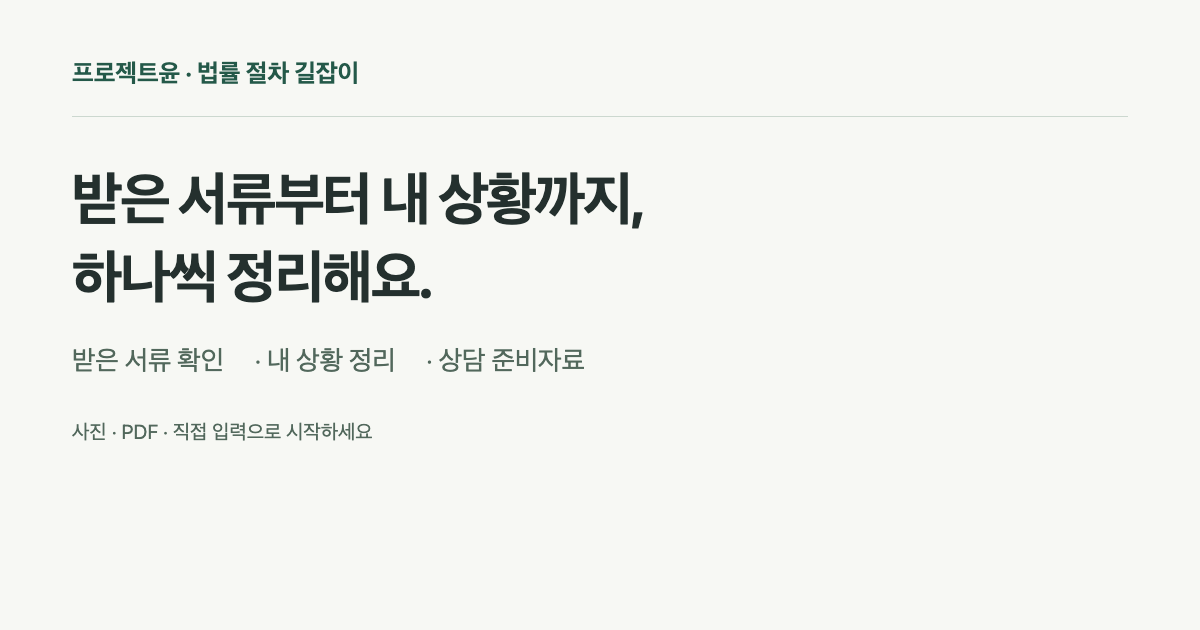
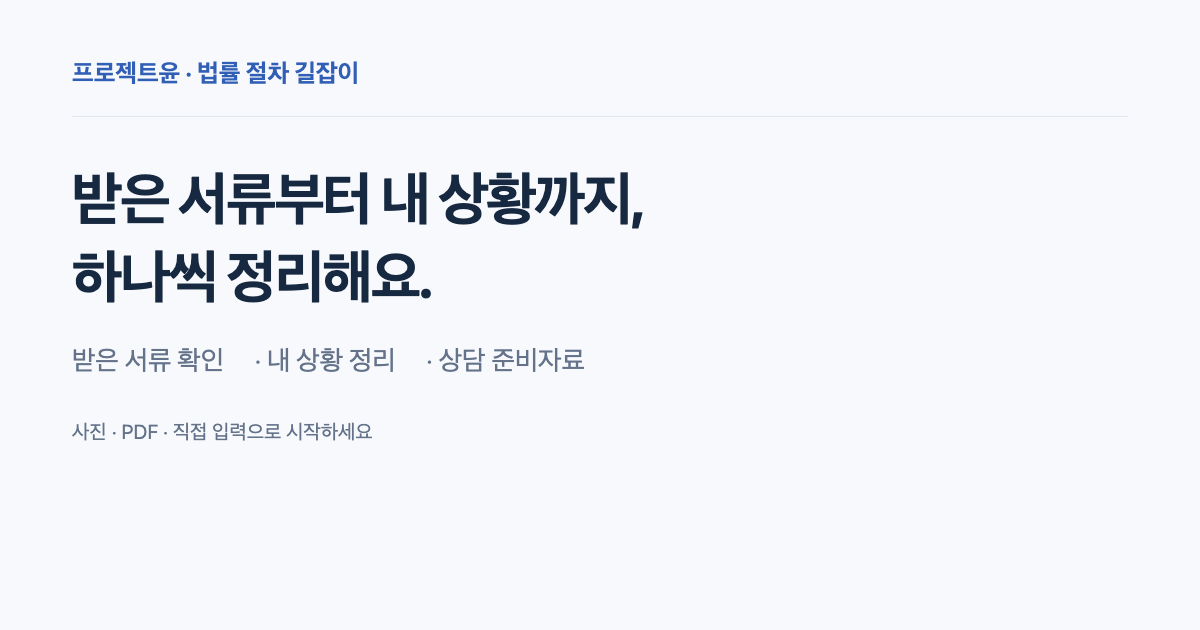
Unify independent web palette in blue and support dark-mode writing

diff --git a/절차/simple.css b/절차/simple.css
@@ -1,4 +1,8 @@
-:root{color-scheme:light;--ink:#24302e;--muted:#64716c;--line:#dbe2dc;--accent:#245949;--paper:#fff;--bg:#f7f8f4}*{box-sizing:border-box}body{margin:0;color:var(--ink);background:var(--bg);font:17px/1.65 system-ui,-apple-system,sans-serif}header{max-width:1120px;margin:auto;padding:24px 28px;display:flex;align-items:center;justify-content:space-between;border-bottom:1px solid var(--line);gap:12px}a{color:var(--accent)}header a{text-decoration:none;font-weight:750}header a span{font-weight:400;margin-left:14px;color:var(--muted);font-size:14px}.badge{font-size:12px;border:1px solid var(--line);padding:3px 8px;border-radius:4px;white-space:nowrap}main{max-width:760px;margin:42px auto 70px;padding:0 26px;min-height:52vh}nav{display:flex;justify-content:space-between;align-items:center;min-height:28px;color:var(--muted);font-size:14px;margin-bottom:26px}h1{font-size:clamp(27px,5vw,36px);line-height:1.35;letter-spacing:-.04em;margin:0 0 14px}h2{font-size:21px;margin:0 0 14px}p{margin:12px 0}.intro{color:var(--muted);margin-bottom:28px}.panel{background:var(--paper);border:1px solid var(--line);border-radius:8px;padding:24px;margin:24px 0}button{font:inherit;cursor:pointer;color:inherit;background:white;border:1px solid var(--line);padding:11px 18px;border-radius:5px}.primary{background:var(--accent);color:white;border-color:var(--accent);font-weight:650}.text-button{border:0;background:none;padding:3px 0;color:var(--accent);text-decoration:underline;font-size:14px}.actions{display:flex;flex-wrap:wrap;gap:12px;align-items:center;margin-top:24px}button:disabled{opacity:.5;cursor:not-allowed}label{display:block;font-weight:600;margin:18px 0 7px}input:not([type=checkbox]):not([type=radio]),textarea,select{display:block;width:100%;max-width:100%;font:inherit;color:inherit;padding:9px 12px;border:1px solid #a9b7af;background:white;border-radius:4px}textarea{min-height:100px;resize:vertical}.check{display:flex;gap:11px;align-items:flex-start;font-weight:400}.check input{flex:none;margin-top:7px;width:19px;height:19px}.hint,small{font-size:14px;color:var(--muted)}.quiet{padding-top:18px;border-top:1px solid var(--line)}details{margin:18px 0}summary{cursor:pointer;color:var(--accent)}.summary-row{padding:15px 0;border-bottom:1px solid var(--line);display:grid;grid-template-columns:110px 1fr auto;gap:12px;align-items:start}.summary-row strong{font-size:15px}.summary-row .value{overflow-wrap:anywhere}.summary-row button{padding:0}.source{max-height:300px;overflow:auto;padding:16px;background:#eef2ed;white-space:pre-wrap;overflow-wrap:anywhere;font:14px/1.7 system-ui}.options label{font-weight:400;padding:14px;border:1px solid var(--line);border-radius:5px;background:white;display:flex;align-items:flex-start;gap:10px}.options input{margin-top:7px;flex:none}.warning{border-left:4px solid #af7d2b;padding:12px 16px;background:#fbf4e4}.columns{display:grid;grid-template-columns:1fr 1fr;gap:0 20px}pre{white-space:pre-wrap;overflow-wrap:anywhere;font:inherit}footer{max-width:760px;margin:0 auto;padding:24px 26px 40px;color:var(--muted);font-size:13px;border-top:1px solid var(--line)}footer button{margin-left:18px}a:focus-visible,button:focus-visible,input:focus-visible,textarea:focus-visible,summary:focus-visible,select:focus-visible{outline:3px solid #e2b645;outline-offset:3px}#status{color:#8a4318}#draft-preview{background:white;padding:24px;border:1px solid var(--line)}@media(max-width:520px){header{padding:16px}header a span{display:none}main{margin-top:26px;padding:0 20px}.panel{padding:18px}.summary-row{grid-template-columns:1fr auto;gap:3px 12px}.summary-row strong{grid-column:1}.summary-row .value{grid-column:1}.summary-row button{grid-column:2;grid-row:1/3}.columns{grid-template-columns:1fr}footer{padding:20px}.actions .primary{width:100%}}@media print{header,footer,nav,#status,main h1,main .intro,.no-print{display:none!important}body{background:white}main{margin:0;padding:0;max-width:none}#result-document{display:block!important}#result-document>summary{display:none}#draft-preview{padding:0;border:0}main #screen>*:not(#result-document){display:none!important}}
+:root{color-scheme:light dark;--ink:#172941;--muted:#64738a;--line:#e1e7ef;--accent:#315fb5;--button:#315fb5;--paper:#fff;--bg:#f7f9fc;--soft:#edf3ff;--field:#acbdd8}*{box-sizing:border-box}body{margin:0;color:var(--ink);background:var(--bg);font:17px/1.65 system-ui,-apple-system,sans-serif}header{max-width:1120px;margin:auto;padding:24px 28px;display:flex;align-items:center;justify-content:space-between;border-bottom:1px solid var(--line);gap:12px}a{color:var(--accent)}header a{text-decoration:none;font-weight:750}header a span{font-weight:400;margin-left:14px;color:var(--muted);font-size:14px}.badge{font-size:12px;border:1px solid var(--line);padding:3px 8px;border-radius:4px;white-space:nowrap}main{max-width:760px;margin:42px auto 70px;padding:0 26px;min-height:52vh}nav{display:flex;justify-content:space-between;align-items:center;min-height:28px;color:var(--muted);font-size:14px;margin-bottom:26px}h1{font-size:clamp(27px,5vw,36px);line-height:1.35;letter-spacing:-.04em;margin:0 0 14px}h2{font-size:21px;margin:0 0 14px}p{margin:12px 0}.intro{color:var(--muted);margin-bottom:28px}.panel{background:var(--paper);border:1px solid var(--line);border-radius:8px;padding:24px;margin:24px 0}button{font:inherit;cursor:pointer;color:inherit;background:var(--paper);border:1px solid var(--line);padding:11px 18px;border-radius:5px}.primary{background:var(--button);color:white;border-color:var(--button);font-weight:650}.text-button{border:0;background:none;padding:3px 0;color:var(--accent);text-decoration:underline;font-size:14px}.actions{display:flex;flex-wrap:wrap;gap:12px;align-items:center;margin-top:24px}button:disabled{opacity:.5;cursor:not-allowed}label{display:block;font-weight:600;margin:18px 0 7px}input:not([type=checkbox]):not([type=radio]),textarea,select{display:block;width:100%;max-width:100%;font:inherit;color:inherit;padding:9px 12px;border:1px solid var(--field);background:var(--paper);border-radius:4px}textarea{min-height:100px;resize:vertical}.check{display:flex;gap:11px;align-items:flex-start;font-weight:400}.check input{flex:none;margin-top:7px;width:19px;height:19px}.hint,small{font-size:14px;color:var(--muted)}.quiet{padding-top:18px;border-top:1px solid var(--line)}details{margin:18px 0}summary{cursor:pointer;color:var(--accent)}.summary-row{padding:15px 0;border-bottom:1px solid var(--line);display:grid;grid-template-columns:110px 1fr auto;gap:12px;align-items:start}.summary-row strong{font-size:15px}.summary-row .value{overflow-wrap:anywhere}.summary-row button{padding:0}.source{max-height:300px;overflow:auto;padding:16px;background:var(--soft);white-space:pre-wrap;overflow-wrap:anywhere;font:14px/1.7 system-ui}.options label{font-weight:400;padding:14px;border:1px solid var(--line);border-radius:5px;background:var(--paper);display:flex;align-items:flex-start;gap:10px}.options input{margin-top:7px;flex:none}.warning{border-left:4px solid #af7d2b;padding:12px 16px;background:#fbf4e4}.columns{display:grid;grid-template-columns:1fr 1fr;gap:0 20px}pre{white-space:pre-wrap;overflow-wrap:anywhere;font:inherit}footer{max-width:760px;margin:0 auto;padding:24px 26px 40px;color:var(--muted);font-size:13px;border-top:1px solid var(--line)}footer button{margin-left:18px}a:focus-visible,button:focus-visible,input:focus-visible,textarea:focus-visible,summary:focus-visible,select:focus-visible{outline:3px solid #779ce0;outline-offset:3px}#status{color:#8a4318}#draft-preview{background:var(--paper);padding:24px;border:1px solid var(--line)}@media(max-width:520px){header{padding:16px}header a span{display:none}main{margin-top:26px;padding:0 20px}.panel{padding:18px}.summary-row{grid-template-columns:1fr auto;gap:3px 12px}.summary-row strong{grid-column:1}.summary-row .value{grid-column:1}.summary-row button{grid-column:2;grid-row:1/3}.columns{grid-template-columns:1fr}footer{padding:20px}.actions .primary{width:100%}}@media print{header,footer,nav,#status,main h1,main .intro,.no-print{display:none!important}body{background:var(--paper)}main{margin:0;padding:0;max-width:none}#result-document{display:block!important}#result-document>summary{display:none}#draft-preview{padding:0;border:0}main #screen>*:not(#result-document){display:none!important}}
 :is(.review-item, .entry-choices){overflow-wrap:anywhere}.review-item{padding:16px 0;border-bottom:1px solid var(--line)}.review-item summary{line-height:1.8}.entry-choices{display:grid;gap:16px;margin:28px 0}.entry-choices button{text-align:left;padding:22px}
 .event-item{background:var(--paper);padding:18px;border:1px solid var(--line);border-radius:6px}.event-item>summary{font-weight:650}.event-item>button{margin-top:16px}
 .review-label{font-size:14px;color:var(--muted);margin-right:10px}.review-value{display:block;color:var(--ink);white-space:pre-wrap;padding:6px 0}.review-item summary small{font-size:13px;text-decoration:underline}.review-item+h2{margin-top:32px}
+
+input[type=checkbox],input[type=radio]{accent-color:var(--button)}
+@media(prefers-color-scheme:dark){:root{--ink:#e2e9f5;--muted:#a1b0c5;--line:#2e3d51;--accent:#a3bef5;--button:#3764b4;--paper:#182437;--bg:#111b2a;--soft:#233552;--field:#4a5e7c}.warning{background:#392d1c;border-color:#c79a49}#status{color:#ffbf91}}
+@media print{:root{color-scheme:light;--ink:#172941;--muted:#64738a;--line:#e1e7ef;--accent:#315fb5;--paper:#fff;--bg:#fff;--soft:#edf3ff}body{color:var(--ink);background:#fff}}

diff --git a/assets/journey-home.css b/assets/journey-home.css
@@ -1,2 +1,2 @@
-.journey-home{padding:76px 0 50px;background:#f7f8f4;color:#24302e}.journey-home .site-width{max-width:880px}.journey-home h1{font-size:clamp(30px,5vw,48px);line-height:1.3;letter-spacing:-.045em;margin:14px 0 22px}.journey-home p{line-height:1.8}.journey-links{display:grid;grid-template-columns:1fr 1fr;gap:16px;margin:32px 0 20px}.journey-links a{display:block;border:1px solid #ccd8cf;border-radius:8px;background:#fff;color:#245949;padding:26px;text-decoration:none}.journey-links a:hover{border-color:#245949;background:#f0f5ef}.journey-links strong{display:block;font-size:20px}.journey-links a>span{display:block;margin-top:12px;color:#64716c;font-size:15px}.journey-note{font-size:14px;color:#64716c}.legacy-guide{margin:28px auto;max-width:1120px}.legacy-guide>summary{padding:20px;cursor:pointer;color:#245949;border-block:1px solid #dbe2dc}.legacy-guide>summary small{display:block;font-weight:400;color:#64716c;padding-top:6px}.journey-links a:focus-visible{outline:3px solid #b88624;outline-offset:4px}@media(max-width:600px){.journey-home{padding:42px 0 30px}.journey-links{grid-template-columns:1fr}.journey-links a{padding:22px}.journey-home .site-width{padding-inline:22px}}
-.service-scope{max-width:880px}.scope-grid{display:grid;grid-template-columns:1fr 1fr;gap:32px;margin:28px 0}.scope-grid h3{font-size:19px}.scope-grid ul{padding-left:20px;line-height:1.9}.scope-note{padding-top:20px;border-top:1px solid #dbe2dc;font-size:14px}.coverage-details{margin-top:28px}.coverage-details>summary{cursor:pointer;padding-block:16px}.site-nav .nav-start,.final-cta .nav-start{background:#245949;color:#fff}.final-cta{background:#f0f5ef}.site-nav a:focus-visible{outline:3px solid #b88624;outline-offset:3px}@media(max-width:600px){.scope-grid{grid-template-columns:1fr;gap:18px}}@media(prefers-color-scheme:dark){.journey-home{background:#17231f;color:#eef4ef}.journey-links a{background:#21332b;border-color:#557262;color:#d8eade}.journey-links a:hover{background:#2b4437}.journey-links a>span,.journey-note{color:#b6cabc}.legacy-guide>summary{color:#d8eade}.legacy-guide>summary small{color:#b6cabc}.final-cta{background:#17231f}}
+.journey-home{padding:76px 0 50px;background:var(--soft);color:var(--fg)}.journey-home .site-width{max-width:880px}.journey-home h1{font-size:clamp(30px,5vw,48px);line-height:1.3;letter-spacing:-.045em;margin:14px 0 22px}.journey-home p{line-height:1.8}.journey-links{display:grid;grid-template-columns:1fr 1fr;gap:16px;margin:32px 0 20px}.journey-links a{display:block;border:1px solid var(--line);border-radius:8px;background:var(--bg);color:var(--blue);padding:26px;text-decoration:none}.journey-links a:hover{border-color:var(--blue);background:var(--blue-soft)}.journey-links strong{display:block;font-size:20px}.journey-links a>span{display:block;margin-top:12px;color:var(--muted);font-size:15px}.journey-note{font-size:14px;color:var(--muted)}.legacy-guide{margin:28px auto;max-width:1120px}.legacy-guide>summary{padding:20px;cursor:pointer;color:var(--blue);border-block:1px solid var(--line)}.legacy-guide>summary small{display:block;font-weight:400;color:var(--muted);padding-top:6px}.journey-links a:focus-visible{outline:3px solid #779ce0;outline-offset:4px}@media(max-width:600px){.journey-home{padding:42px 0 30px}.journey-links{grid-template-columns:1fr}.journey-links a{padding:22px}.journey-home .site-width{padding-inline:22px}}
+.service-scope{max-width:880px}.scope-grid{display:grid;grid-template-columns:1fr 1fr;gap:32px;margin:28px 0}.scope-grid h3{font-size:19px}.scope-grid ul{padding-left:20px;line-height:1.9}.scope-note{padding-top:20px;border-top:1px solid var(--line);font-size:14px}.coverage-details{margin-top:28px}.coverage-details>summary{cursor:pointer;padding-block:16px}.final-cta{background:var(--blue-soft)}.site-nav a:focus-visible{outline:3px solid #779ce0;outline-offset:3px}@media(max-width:600px){.scope-grid{grid-template-columns:1fr;gap:18px}}

diff --git a/assets/business-info.css b/assets/business-info.css
@@ -1,1 +1,1 @@
-footer .business-info{max-width:1120px;margin:28px auto 0;padding-top:20px;border-top:1px solid #dbe2dc;font-size:13px;line-height:1.8;color:#64716c;text-align:left}footer .business-info>strong{font-weight:650}footer .business-info dl{display:flex;flex-wrap:wrap;gap:4px 24px;margin:8px 0 0}footer .business-info dl>div{display:flex;flex-wrap:wrap;gap:0 8px}footer .business-info dt{font-weight:400}footer .business-info dd{margin:0;overflow-wrap:anywhere}footer .business-info a{color:inherit;text-decoration:underline}footer.site-footer .business-info{padding-inline:32px}@media(max-width:520px){footer .business-info dl{display:grid;gap:4px}footer.site-footer .business-info{padding-inline:24px}}@media(prefers-color-scheme:dark){footer.site-footer .business-info{color:#b6cabc;border-color:#42564a}}@media print{footer .business-info{display:none!important}}
+footer .business-info{max-width:1120px;margin:28px auto 0;padding-top:20px;border-top:1px solid var(--line);font-size:13px;line-height:1.8;color:var(--muted);text-align:left}footer .business-info>strong{font-weight:650}footer .business-info dl{display:flex;flex-wrap:wrap;gap:4px 24px;margin:8px 0 0}footer .business-info dl>div{display:flex;flex-wrap:wrap;gap:0 8px}footer .business-info dt{font-weight:400}footer .business-info dd{margin:0;overflow-wrap:anywhere}footer .business-info a{color:inherit;text-decoration:underline}footer.site-footer .business-info{padding-inline:32px}@media(max-width:520px){footer .business-info dl{display:grid;gap:4px}footer.site-footer .business-info{padding-inline:24px}}@media print{footer .business-info{display:none!important}}

diff --git a/HANDOFF.md b/HANDOFF.md
@@ -2,6 +2,7 @@
 
 | 갈래 | 한 줄 요약 | 마지막 갱신 | 급함 |
 |---|---|---|---|
+| N | 사용자 요청 파란색 통일·다크 모드 보완, 배포·GitHub 동기화 진행 | 2026-09-15 | 독립 웹만 |
 | M | 사용자 승인으로 최신 웹·사업자 푸터 Production 적용·검증 완료 | 2026-09-15 | 현재 정식 버전 |
 | L | 사업자 푸터 추가·주소는 시 단위, 시험 배포 완료 | 2026-09-15 | 상세주소 공개 금지 |
 | K | 여러 사건 경위·수정 요약·입력 보존 보완, 시험 배포 검증 완료 | 2026-09-15 | 독립 웹만 |
@@ -283,3 +284,13 @@
 - 배포 직후 공유 이미지 검사에서 한 차례 404 관찰, 이후 직접 조회와 전체 해당 브라우저 검사 재실행으로 200/통과 확인. 원인은 확정하지 않음.
 - 외부 코드 리뷰·CI·실사용자·법률 전문가 검수 미완료. 기한 승인 게이트 해제나 법적 주장 자동생성 확대 없음. 장시간 운영 모니터링을 수행한 것은 아님.
 - 복구 기준: 기존 Production `1f90ee1c-059c-414f-9835-694935710366`, 코드 `d6d36e0`, URL `https://1f90ee1c.legalnavi.pages.dev`. 원문 외부전송·개인정보 노출·주요 동선/다운로드 장애 확인 시 복구 검토.
+
+# N. 파란색 통일·GitHub 동기화 (2026-09-15)
+
+## 지금 상태
+- 사용자가 초록색 아닌 파란색을 명시 요청. 기존 홈페이지 청색 #315fb5를 기준으로 시작 화면·작성 화면·푸터·공유 이미지 통일. 레이아웃·문구·사진/PDF 입력·법률 검수 차단·시 단위 주소 유지. 카카오 MCP 변경 없음.
+- 작성 화면 다크 모드 추가, 다크 모드에서 인쇄 시 흰 종이/짙은 글씨 보장. 버튼 대비 4.5:1 이상, 320/375/1280px 검사 통과. palette-browser.test.mjs 추가.
+- 모델/입력 등 23개 및 메타·공유 이미지·화면 안내·여러 사건 경위 회귀 검사 통과. 색 이모지/그라데이션 대상 파일에서 없음. 실제 light desktop/dark mobile 화면 육안 확인.
+- 시험/정식 배포·원격 push는 진행 중. 시작 시 main은 origin/main보다 20개 앞섬. 원격 fetch 후에도 같은 상태. 사용자 요청에 따라 기존 웹 작업 전체를 정상 push 예정(강제 push 금지).
+- 복구 기준: 직전 정식 배포 https://1a76013e.legalnavi.pages.dev (소스 1e1c1b6). 주요 경로/내려받기 장애나 개인정보 노출이면 이 버전 복구 검토.
+- 외부 리뷰·CI·15분 운영 지표 모니터링은 미실시. 로컬/배포 주소의 실제 브라우저 검사로 검증.
